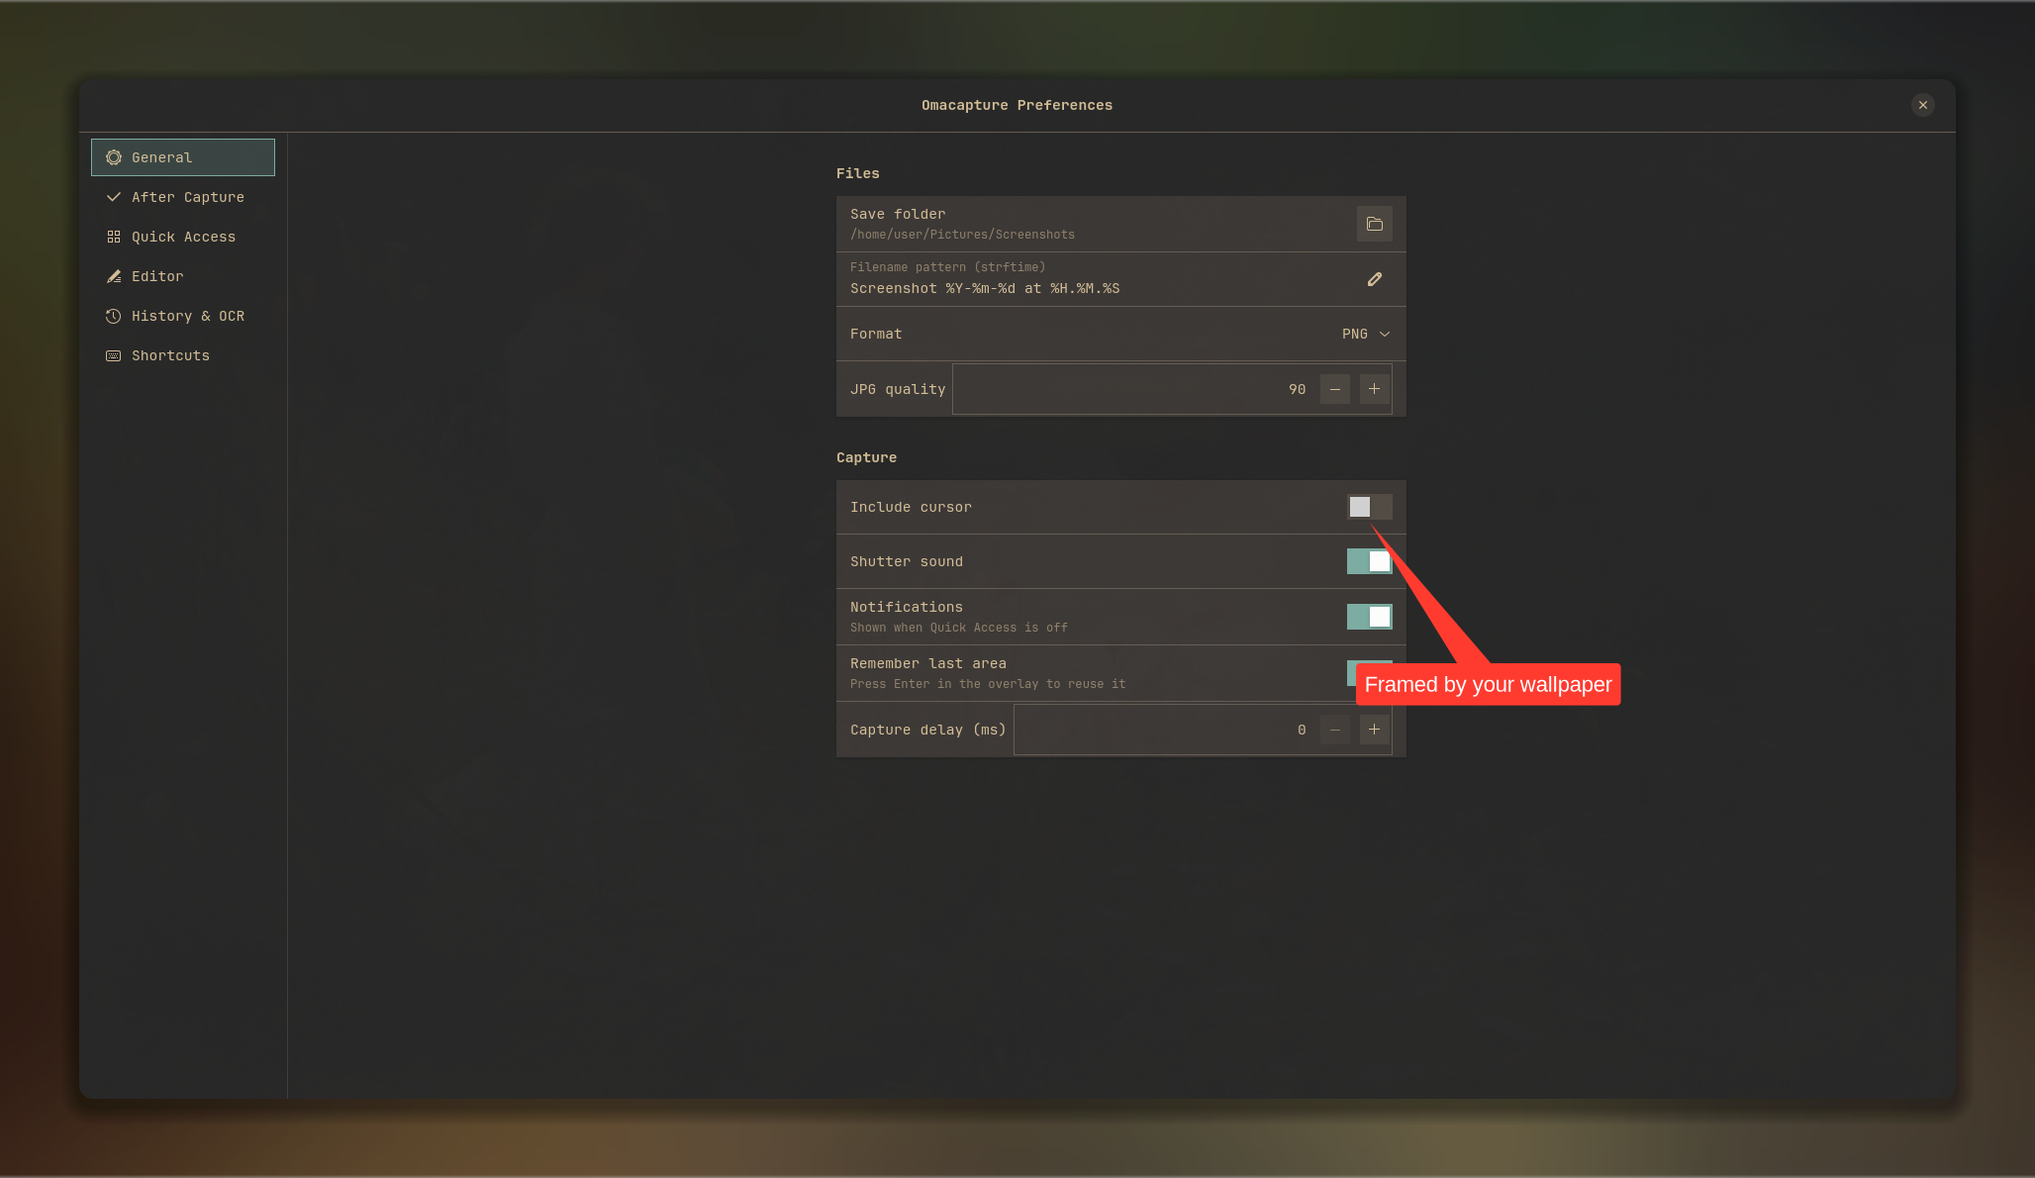
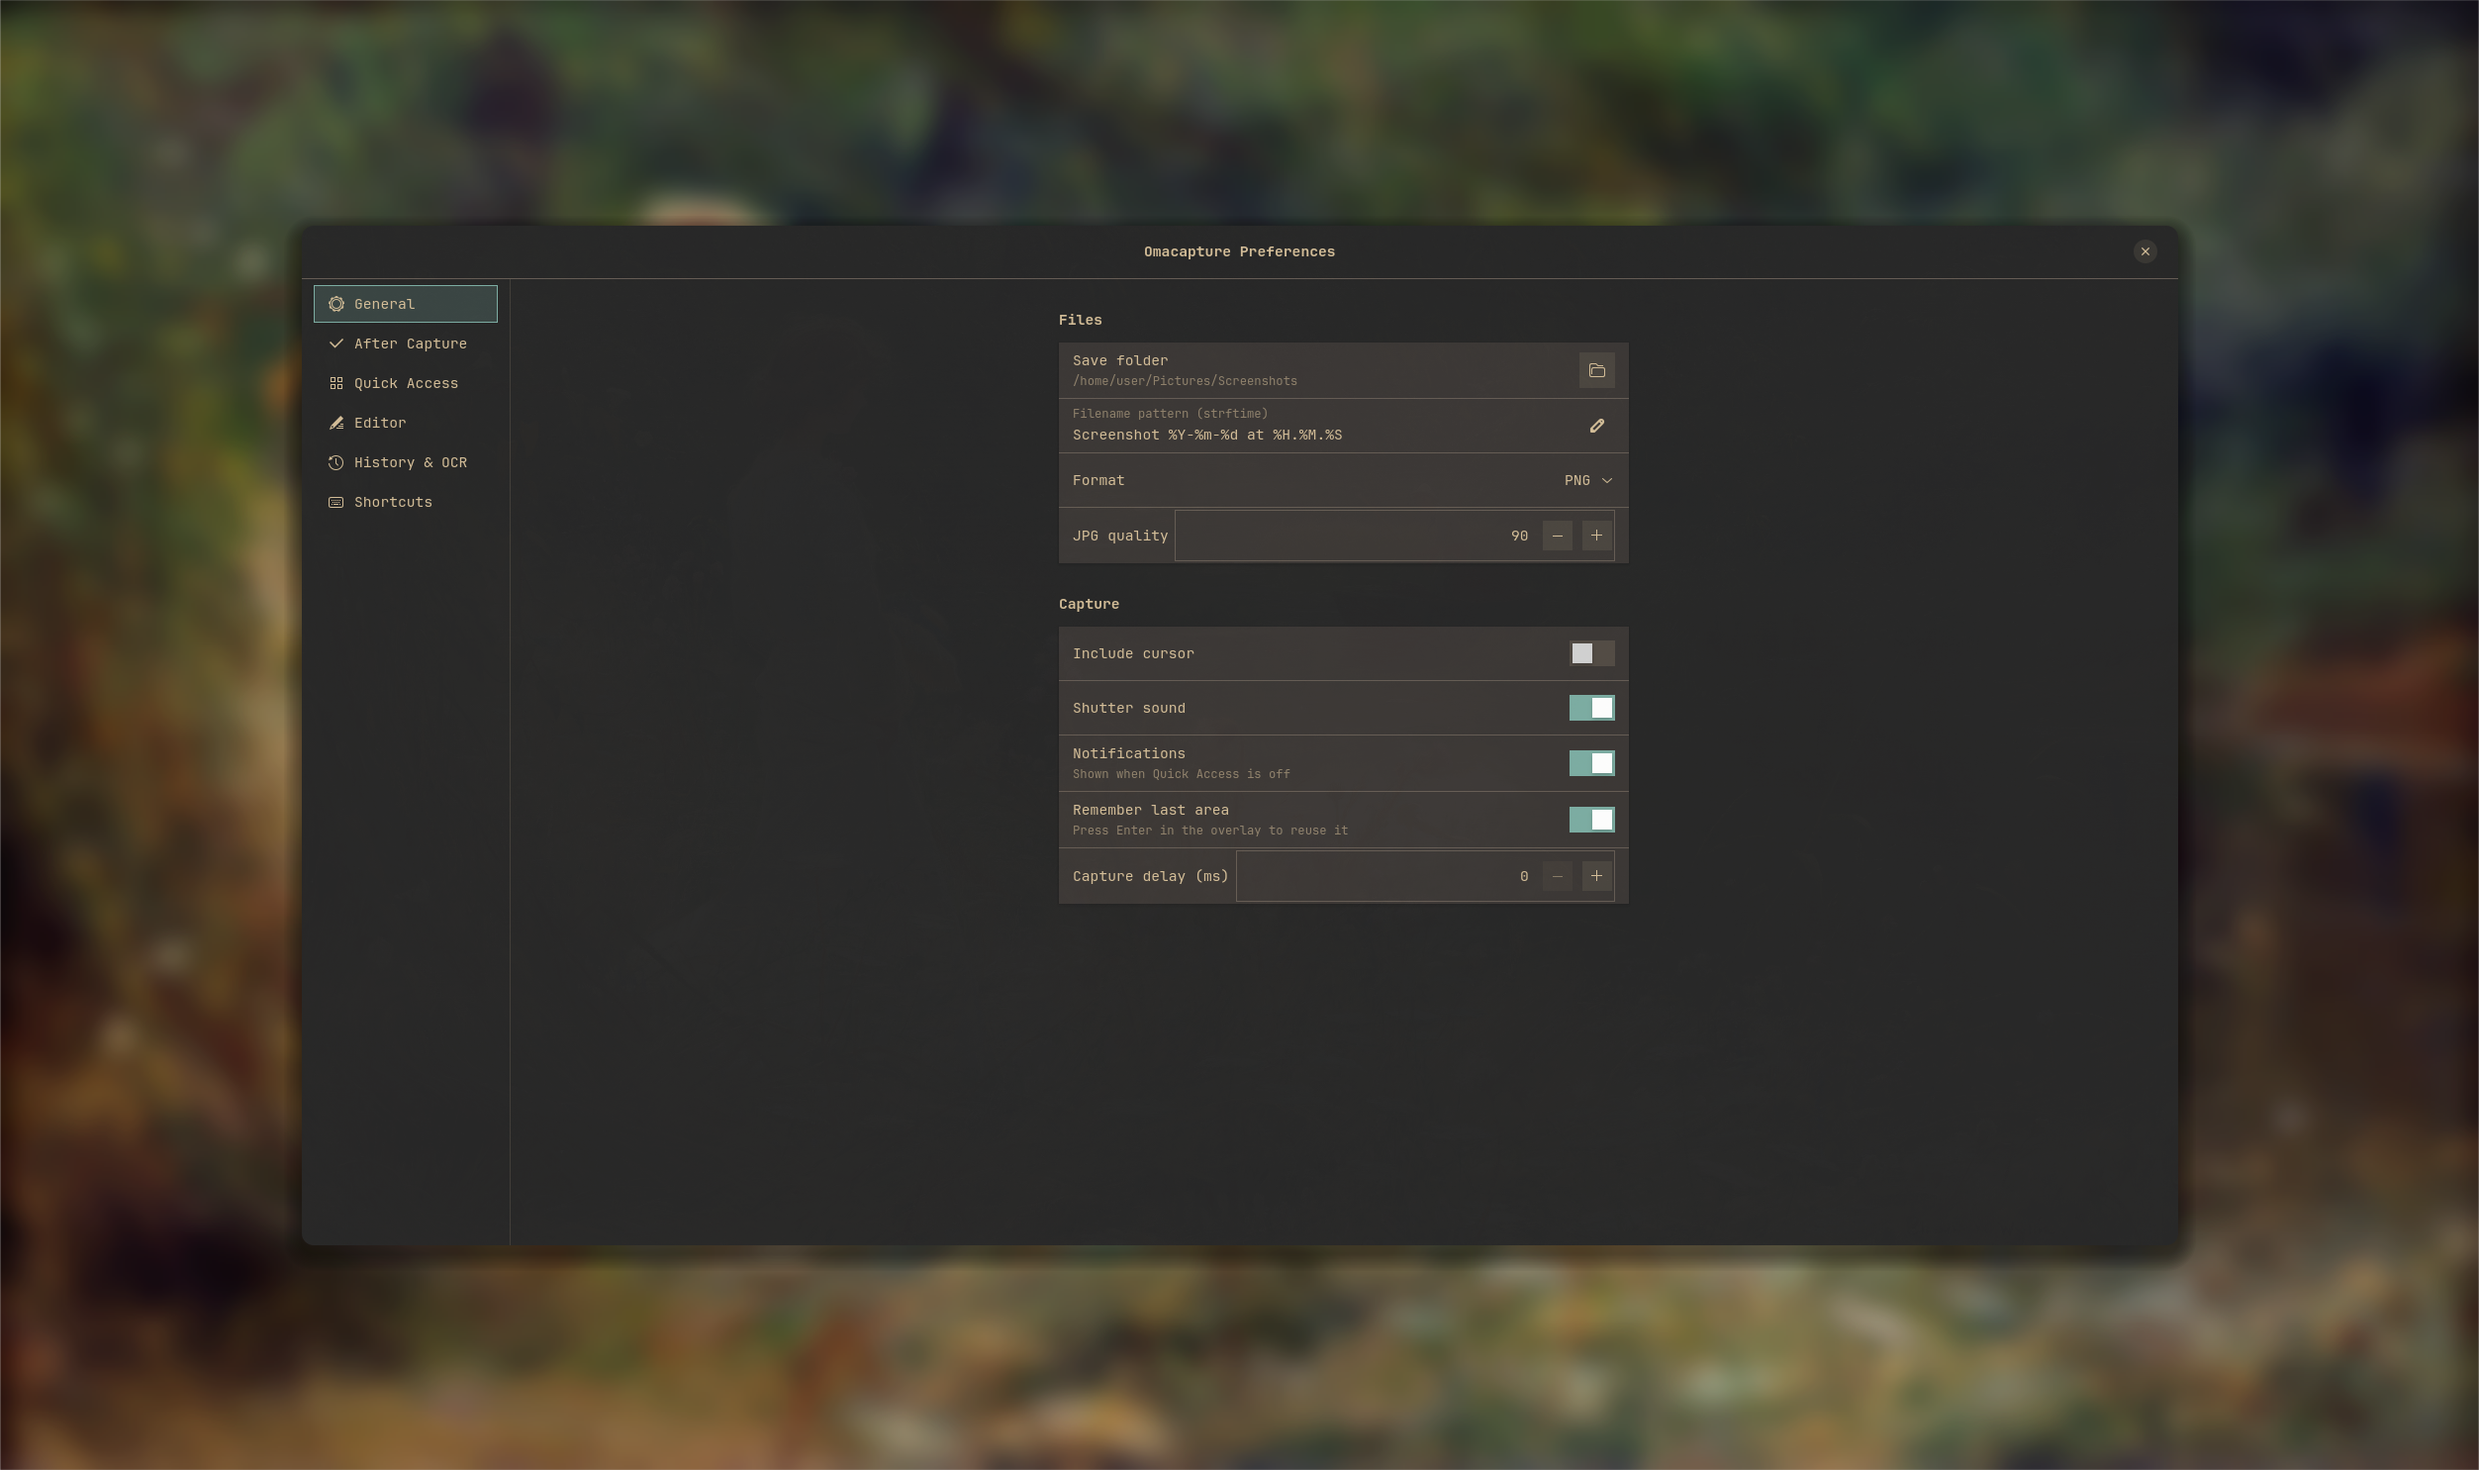
Omarchy frame: whole wallpaper at its own aspect, lighter blur, one-click toolbar toggle
- Canvas::omarchy_frame preset: wallpaper aspect, padding from capture size,
  strength 3 blur on a ~1280px render, light dim, rounded corners, shadow
- Toolbar toggle and Ctrl+Shift+F apply or remove it; sidebar option,
  default-background preference, and MCP background "wallpaper" use the preset

Claude-Session: https://claude.ai/code/session_01WBKRRBCm8YB1xxRzLF7vQL

diff --git a/src/annotate/window.rs b/src/annotate/window.rs
@@ -21,6 +21,7 @@ pub struct EditorWindow {
     sidebar: Sidebar,
     tool_buttons: RefCell<Vec<(Tool, gtk::ToggleButton)>>,
     zoom_label: gtk::Label,
+    frame_btn: gtk::ToggleButton,
     undo_btn: gtk::Button,
     redo_btn: gtk::Button,
     words: RefCell<Option<Vec<crate::ocr::Word>>>,
@@ -151,9 +152,11 @@ impl EditorWindow {
                 let mut st = canvas.state.borrow_mut();
                 match cfg.annotate.default_background.as_str() {
                     "wallpaper" => {
-                        st.doc.sheet.canvas.background = Background::Wallpaper { strength: 8.0, dim: 0.25 };
-                        st.doc.sheet.canvas.padding = cfg.annotate.default_padding;
-                        st.doc.sheet.canvas.corner_radius = 12.0;
+                        let (w, h) = (st.doc.width(), st.doc.height());
+                        st.doc.sheet.canvas = super::model::Canvas::omarchy_frame(w, h);
+                        if cfg.annotate.default_padding > 0.0 {
+                            st.doc.sheet.canvas.padding = cfg.annotate.default_padding;
+                        }
                     }
                     "blurred" => {
                         st.doc.sheet.canvas.background = Background::Blurred { strength: 8.0, dim: 0.15 };
@@ -191,6 +194,14 @@ impl EditorWindow {
         header.pack_start(&undo_btn);
         header.pack_start(&redo_btn);
 
+        let frame_btn = gtk::ToggleButton::new();
+        let frame_content = adw::ButtonContent::new();
+        frame_content.set_icon_name("image-x-generic-symbolic");
+        frame_content.set_label("Omarchy frame");
+        frame_btn.set_child(Some(&frame_content));
+        frame_btn.set_tooltip_text(Some("Frame the capture with your blurred Omarchy wallpaper (Ctrl+Shift+F)"));
+        frame_btn.add_css_class("flat");
+        header.pack_end(&frame_btn);
         let sidebar_btn = gtk::ToggleButton::new();
         sidebar_btn.set_icon_name("sidebar-show-right-symbolic");
         sidebar_btn.set_tooltip_text(Some("Canvas & background (Ctrl+B)"));
@@ -234,6 +245,7 @@ impl EditorWindow {
             sidebar,
             tool_buttons: RefCell::new(Vec::new()),
             zoom_label: zoom_label.clone(),
+            frame_btn: frame_btn.clone(),
             undo_btn: undo_btn.clone(),
             redo_btn: redo_btn.clone(),
             words: RefCell::new(None),
@@ -385,6 +397,12 @@ impl EditorWindow {
         {
             let t = this.clone();
             sidebar_btn.connect_toggled(move |b| t.sidebar.revealer.set_reveal_child(b.is_active()));
+            let t = this.clone();
+            frame_btn.connect_toggled(move |b| {
+                if !t.updating.get() {
+                    t.set_omarchy_frame(b.is_active());
+                }
+            });
         }
 
         // Context menu on the canvas.
@@ -1034,7 +1052,10 @@ impl EditorWindow {
         let sb = &self.sidebar;
         let bg = match sb.bg_kind.selected() {
             0 => Background::None,
-            1 => Background::Wallpaper { strength: sb.blur_strength.value(), dim: 0.25 },
+            1 => {
+                self.set_omarchy_frame(true);
+                return;
+            }
             2 => {
                 let cur = self.canvas.state.borrow().doc.sheet.canvas.background.clone();
                 match cur {
@@ -1062,6 +1083,19 @@ impl EditorWindow {
                 c.padding = 48.0;
             }
         });
+    }
+
+    /// One-click frame: the whole wallpaper behind the capture, or back to plain.
+    pub fn set_omarchy_frame(&self, on: bool) {
+        let (w, h) = {
+            let st = self.canvas.state.borrow();
+            let r = st.doc.crop_rect();
+            (r.w, r.h)
+        };
+        self.canvas.update_canvas("frame", move |c| {
+            *c = if on { super::model::Canvas::omarchy_frame(w, h) } else { super::model::Canvas::default() };
+        });
+        self.canvas.zoom_fit();
     }
 
     // ----- refresh UI from state -----
@@ -1219,6 +1253,7 @@ impl EditorWindow {
             Background::Blurred { .. } => 4,
             Background::Image { .. } => 5,
         });
+        self.frame_btn.set_active(c.is_omarchy_frame());
         self.sidebar.padding.set_value(c.padding);
         self.sidebar.radius.set_value(c.corner_radius);
         self.sidebar.shadow.set_value(c.shadow);
@@ -1276,6 +1311,10 @@ impl EditorWindow {
                     gdk::Key::_0 | gdk::Key::KP_0 => t.canvas.zoom_fit(),
                     gdk::Key::_1 | gdk::Key::KP_1 => t.canvas.zoom_actual(),
                     gdk::Key::e => t.export_as(),
+                    gdk::Key::f | gdk::Key::F if shift => {
+                        let on = !t.canvas.state.borrow().doc.sheet.canvas.is_omarchy_frame();
+                        t.set_omarchy_frame(on);
+                    }
                     gdk::Key::w => {
                         if t.confirm_close() == glib::Propagation::Proceed {
                             t.win.destroy();

diff --git a/src/mcp.rs b/src/mcp.rs
@@ -257,7 +257,7 @@ fn tool_definitions() -> Vec<Value> {
                     "number":{"type":"integer"},"size":{"type":"number","description":"Counter size 1-12"}
                 }}},
                 "crop":{"type":"object","properties":{"x":{"type":"number"},"y":{"type":"number"},"width":{"type":"number"},"height":{"type":"number"}}},
-                "background":{"type":"string","description":"'wallpaper' (the user's current Omarchy wallpaper, blurred), a gradient preset name (pink orange, blue purple, green blue, orange red, purple pink, blue green, yellow orange, cyan blue), a hex color, 'blurred', or 'none'"},
+                "background":{"type":"string","description":"'wallpaper' (the Omarchy frame: the user's whole current wallpaper, lightly blurred, at its own aspect with the capture floating on it), a gradient preset name (pink orange, blue purple, green blue, orange red, purple pink, blue green, yellow orange, cyan blue), a hex color, 'blurred', or 'none'"},
                 "padding":{"type":"number"},
                 "corner_radius":{"type":"number","description":"Rounded corners of the image inside the canvas"},
                 "shadow":{"type":"number","description":"0-1"},
@@ -934,7 +934,11 @@ fn annotate_tool(args: &Value) -> Result<Vec<Value>> {
     if let Some(bg) = str_arg(args, "background") {
         doc.sheet.canvas.background = match bg {
             "none" => Background::None,
-            "wallpaper" | "omarchy" => Background::Wallpaper { strength: 8.0, dim: 0.25 },
+            "wallpaper" | "omarchy" | "omarchy-frame" => {
+                let (w, h) = (doc.width(), doc.height());
+                doc.sheet.canvas = Canvas::omarchy_frame(w, h);
+                doc.sheet.canvas.background.clone()
+            }
             "blurred" => Background::Blurred { strength: 8.0, dim: 0.15 },
             hex if hex.starts_with('#') => Background::Solid { color: Color::parse(hex).unwrap_or(Color::rgba(0.1, 0.1, 0.1, 1.0)) },
             name => {
@@ -943,7 +947,7 @@ fn annotate_tool(args: &Value) -> Result<Vec<Value>> {
                 Background::Gradient { from: Color::parse(a).unwrap(), to: Color::parse(b).unwrap(), angle: 135.0 }
             }
         };
-        if doc.sheet.canvas.background != Background::None && f_arg(args, "padding").is_none() {
+        if doc.sheet.canvas.background != Background::None && f_arg(args, "padding").is_none() && !doc.sheet.canvas.is_omarchy_frame() {
             doc.sheet.canvas.padding = 48.0;
         }
     }

diff --git a/src/annotate/render.rs b/src/annotate/render.rs
@@ -189,10 +189,14 @@ impl Renderer {
                 let key = (*strength * 10.0) as i64;
                 if self.wallpaper_cache.as_ref().map(|c| c.0) != Some(key) {
                     let surf = crate::theme::wallpaper_path().and_then(|p| image::open(p).ok()).map(|img| {
-                        // Downscale first: the blur radius then acts on a small image, which is
-                        // both fast and gives the soft, defocused look.
-                        let small = image::imageops::thumbnail(&img.to_rgba8(), 320, 180);
-                        let blurred = effects::gaussian(&small, (2.0 + strength * 1.5) as u32);
+                        // Keep enough resolution that the wallpaper stays recognizable;
+                        // strength 1-20 maps to a gentle 2-40 px blur at ~1280 px wide.
+                        let rgba = img.to_rgba8();
+                        let (iw, ih) = (rgba.width().max(1), rgba.height().max(1));
+                        let tw = iw.min(1280);
+                        let th = (ih as f64 * tw as f64 / iw as f64).round().max(1.0) as u32;
+                        let small = image::imageops::resize(&rgba, tw, th, image::imageops::FilterType::Triangle);
+                        let blurred = effects::gaussian(&small, (strength * 2.0).clamp(1.0, 40.0) as u32);
                         rgba_to_surface(&blurred)
                     });
                     match surf {

diff --git a/src/annotate/model.rs b/src/annotate/model.rs
@@ -429,6 +429,25 @@ impl Default for Canvas {
 }
 
 impl Canvas {
+    /// The one-click "Omarchy frame": the whole current wallpaper, lightly
+    /// blurred, at its own aspect ratio, with the capture floating on top.
+    pub fn omarchy_frame(capture_w: f64, capture_h: f64) -> Canvas {
+        let aspect = crate::theme::wallpaper_size().map(|(w, h)| (w as f64, h as f64)).unwrap_or((16.0, 9.0));
+        // Enough padding that the wallpaper reads as a backdrop, not a border.
+        let padding = (capture_w.max(capture_h) * 0.12).clamp(64.0, 320.0);
+        Canvas {
+            background: Background::Wallpaper { strength: 3.0, dim: 0.12 },
+            padding,
+            corner_radius: 12.0,
+            shadow: 0.55,
+            aspect: Some(aspect),
+        }
+    }
+
+    pub fn is_omarchy_frame(&self) -> bool {
+        matches!(self.background, Background::Wallpaper { .. })
+    }
+
     pub fn is_plain(&self) -> bool {
         self.background == Background::None && self.padding <= 0.0 && self.corner_radius <= 0.0 && self.aspect.is_none()
     }

diff --git a/src/config.rs b/src/config.rs
@@ -242,8 +242,9 @@ pub struct Annotate {
     pub auto_redact: bool,
     pub watermark_text: String,
     pub watermark_image: Option<PathBuf>,
-    /// Frame new captures in the editor: "none", "wallpaper" (blurred Omarchy background), or "blurred".
+    /// Frame new captures in the editor: "none", "wallpaper" (the Omarchy frame), or "blurred".
     pub default_background: String,
+    /// Padding for that frame; 0 lets the preset pick from the capture size.
     pub default_padding: f64,
 }
 
@@ -264,7 +265,7 @@ impl Default for Annotate {
             watermark_text: String::new(),
             watermark_image: None,
             default_background: "none".into(),
-            default_padding: 64.0,
+            default_padding: 0.0,
         }
     }
 }

diff --git a/src/theme.rs b/src/theme.rs
@@ -69,6 +69,11 @@ pub fn wallpaper_path() -> Option<PathBuf> {
     target.is_file().then_some(target)
 }
 
+/// Width/height of the current wallpaper, for aspect-matched frames.
+pub fn wallpaper_size() -> Option<(u32, u32)> {
+    image::image_dimensions(wallpaper_path()?).ok()
+}
+
 pub fn load() -> Option<ThemeColors> {
     let text = std::fs::read_to_string(colors_path()?).ok()?;
     toml::from_str(&text).ok()

diff --git a/src/annotate/preferences.rs b/src/annotate/preferences.rs
@@ -392,7 +392,7 @@ pub fn open(gb: &Rc<Omacapture>) {
         let gb = outer.clone();
         g_ann.add(&spin_row(
             "Frame padding",
-            Some("Pixels of background around the capture"),
+            Some("Pixels of background around the capture; 0 picks it from the capture size"),
             0.0,
             512.0,
             8.0,

diff --git a/README.md b/README.md
@@ -32,7 +32,7 @@ Select, crop (aspect presets, edge snapping, auto-crop), rectangle, filled recta
 - **Auto-redact** pixelates emails, phone numbers, URLs, card numbers, API tokens, and `key=value` credentials found by local OCR.
 - **Editable sessions**: every save keeps the original pixels and annotations, so a saved screenshot reopens with everything still editable.
 - **Theme aware**: colors come from the active Omarchy theme, corners are square like the shell, the font is the system monospace, and the swatch palette is built from the theme. Theme switches apply instantly.
-- **Wallpaper frame**: one click in the editor's canvas sidebar sets your current Omarchy wallpaper, blurred, as the background around the capture. Turn it on for every new capture under Preferences → Editor → "Frame new captures with", or ask for it over MCP with `background: "wallpaper"`.
+- **Omarchy frame**: the "Omarchy frame" button in the editor toolbar (or `Ctrl+Shift+F`) puts the capture on your whole current Omarchy wallpaper, lightly blurred, at the wallpaper's own aspect ratio, with rounded corners and a shadow. Turn it on for every new capture under Preferences → Editor → "Frame new captures with", or ask for it over MCP with `background: "wallpaper"`.
 
 <img src="docs/screenshots/wallpaper-frame.png" alt="A capture framed by the blurred Omarchy wallpaper" width="760">
 
@@ -153,7 +153,7 @@ global_open = ""
 
 [annotate]
 default_background = "none"               # none | wallpaper (blurred Omarchy background) | blurred, applied to new captures
-default_padding = 64.0
+default_padding = 0.0                     # 0 picks the padding from the capture size
 stroke_color = "#ff3b30"                  # the theme red is used while this is the stock default
 fill_color = "#ff3b3080"
 text_color = "#ff3b30"
